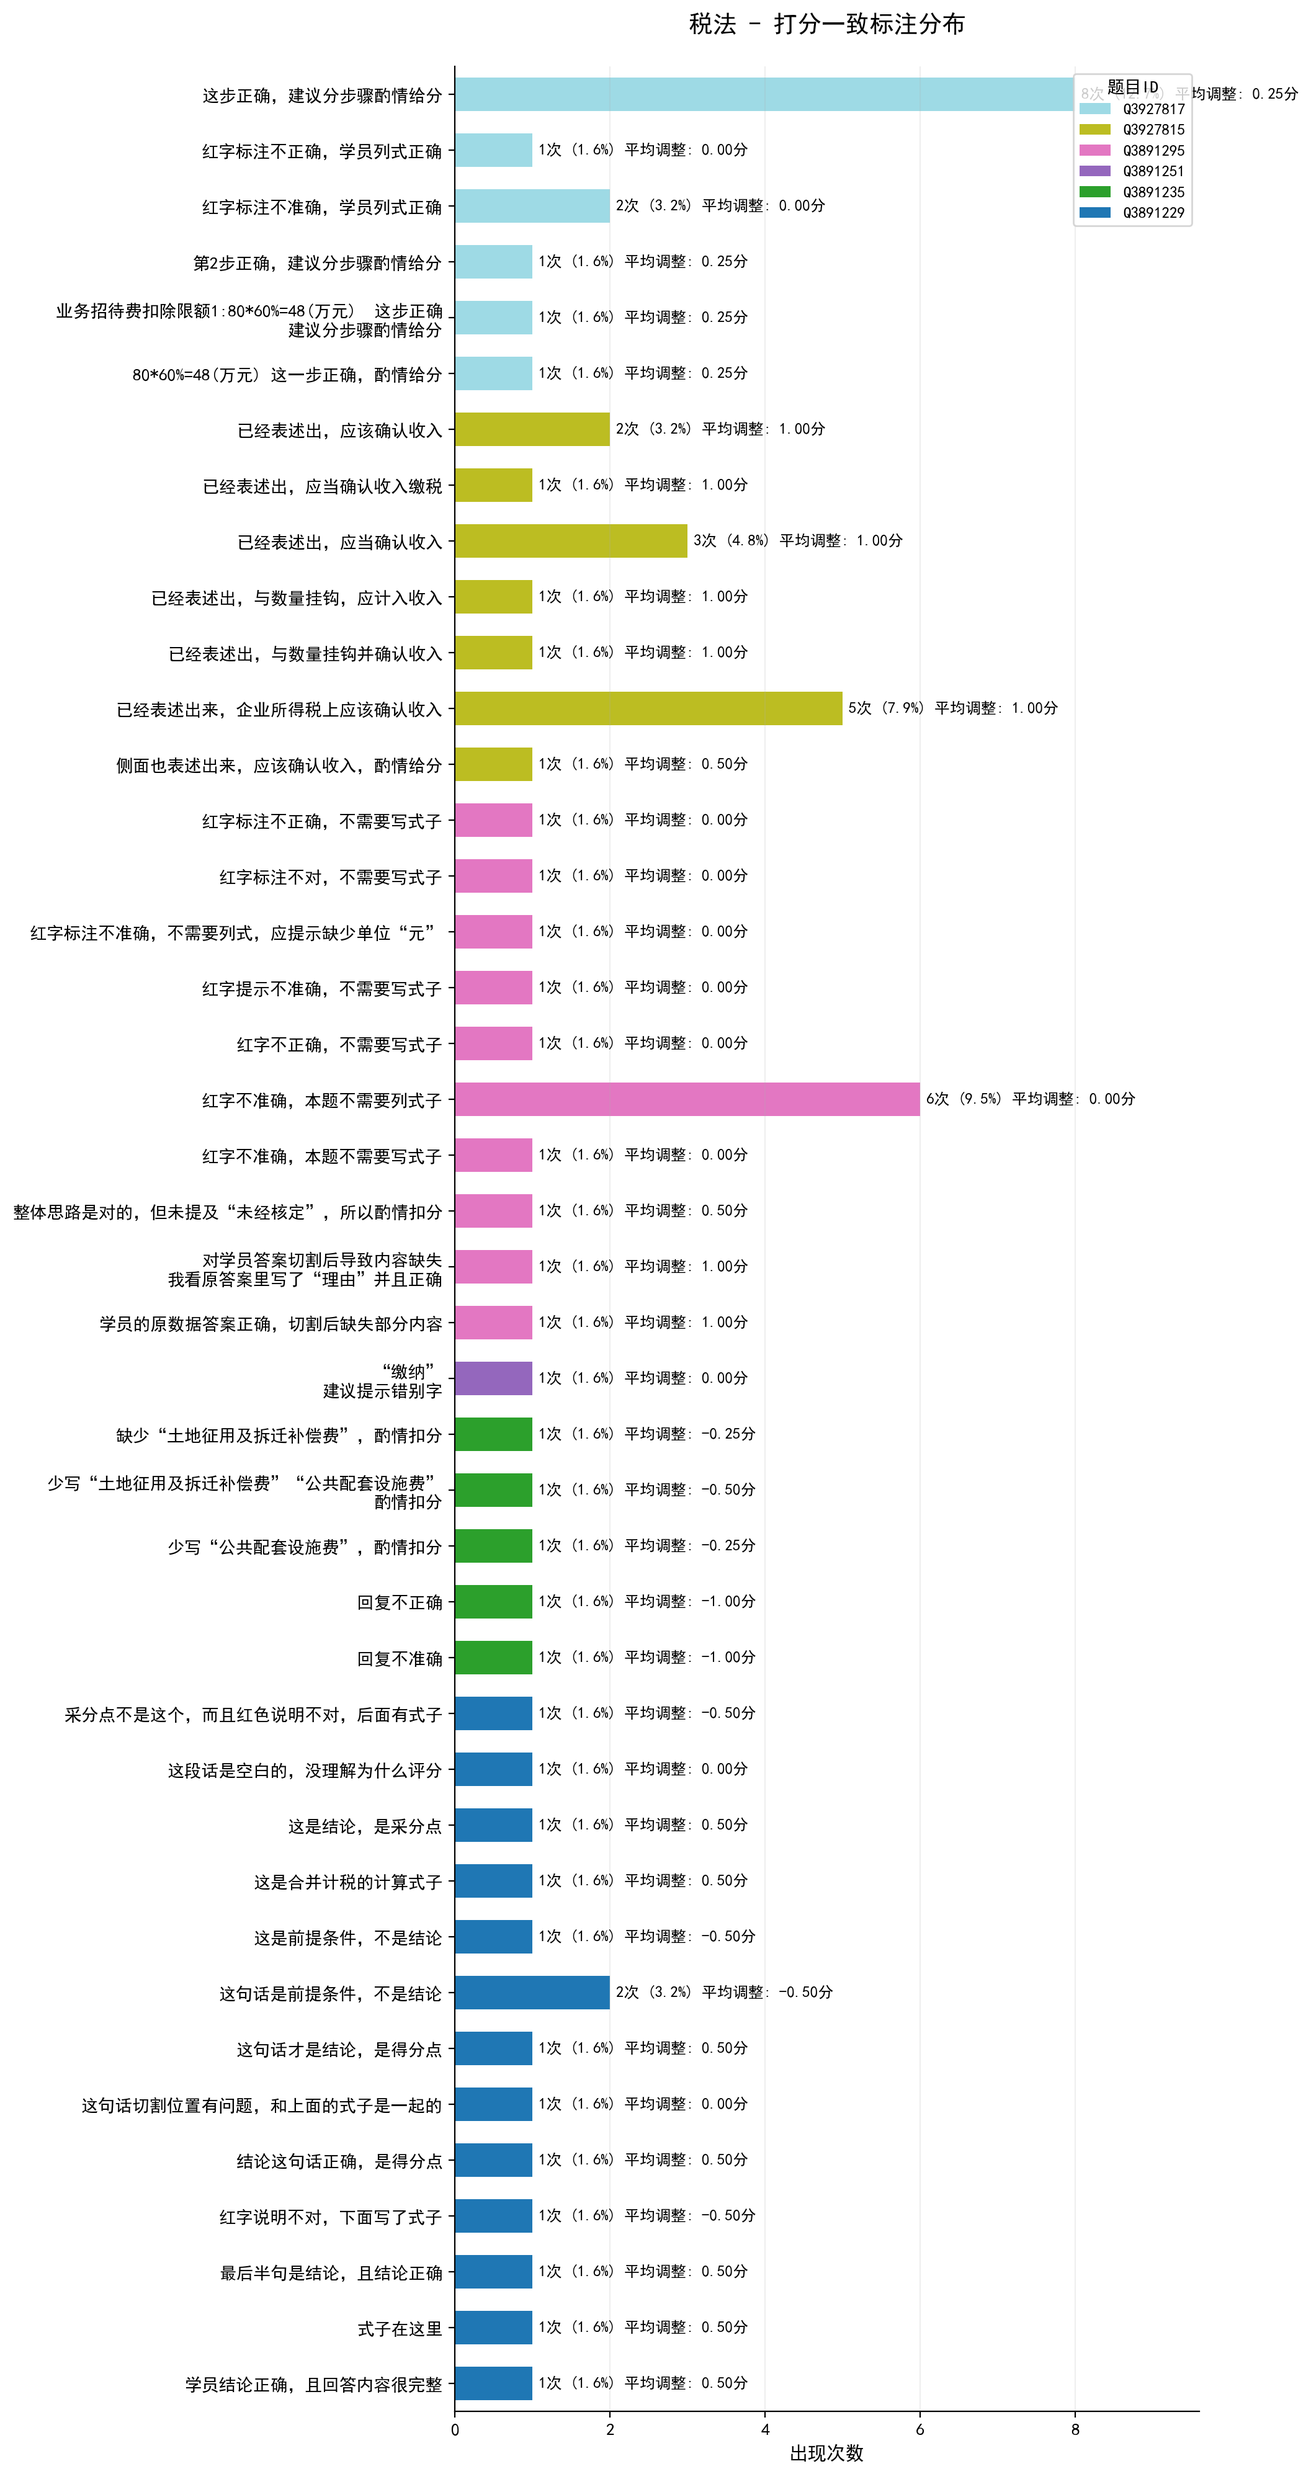
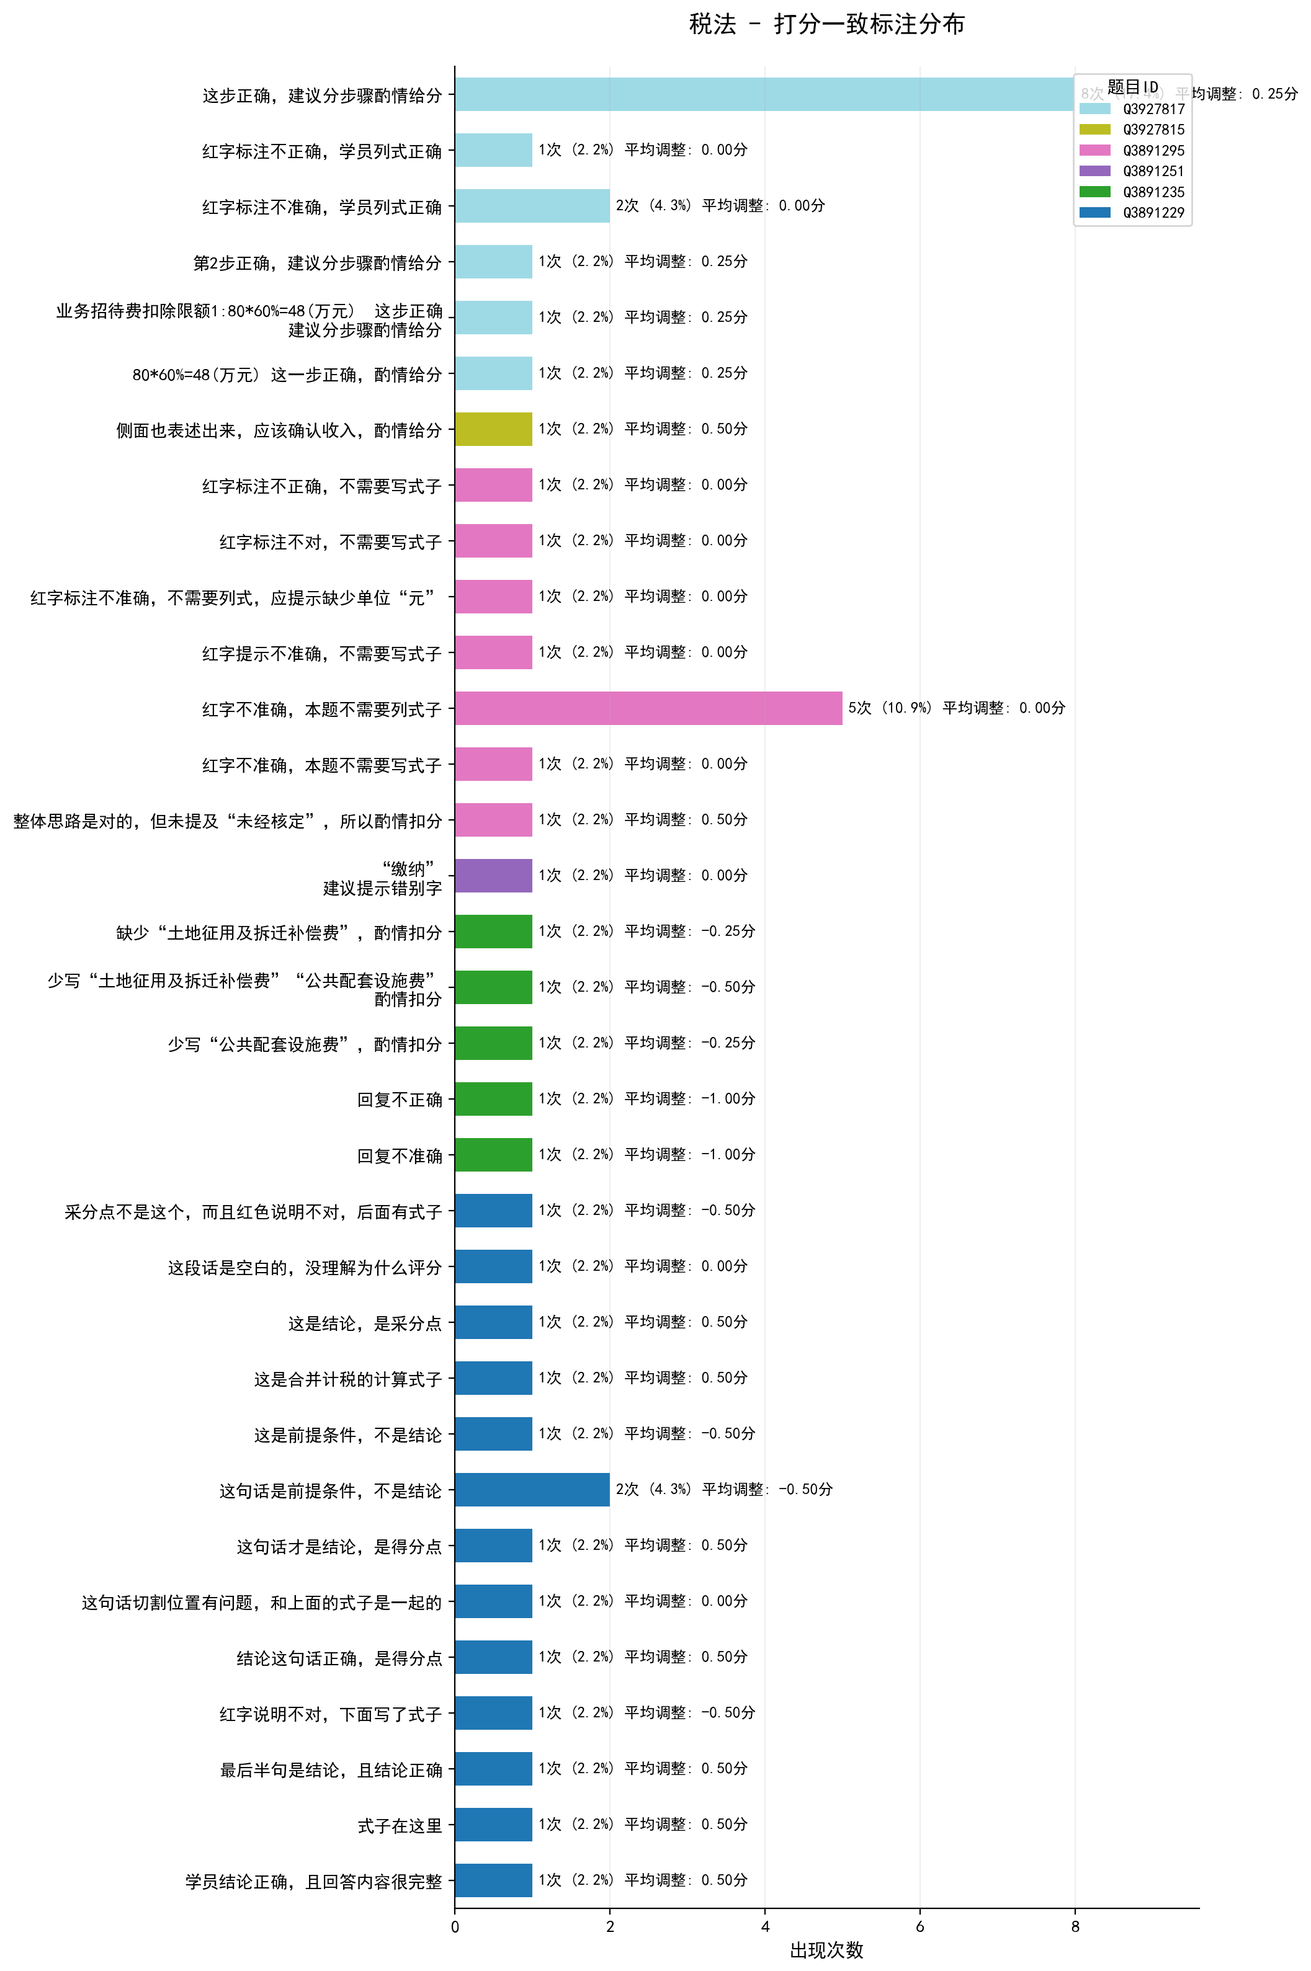
update data

diff --git a/report_output/report.html b/report_output/report.html
@@ -1566,7 +1566,7 @@
             </tr>
         
             <tr class="subject-end" data-subject="税法">
-                <td>税法</td><td>120</td><td>83.33%</td><td>87.50%</td><td>88.33%</td><td>96.67%</td><td>4.17%</td><td>8.33%</td><td>0.888</td><td>[0.843, 0.921]</td><td>0.092</td>
+                <td>税法</td><td>120</td><td>66.67%</td><td>80.00%</td><td>80.83%</td><td>85.00%</td><td>3.33%</td><td>16.67%</td><td>0.837</td><td>[0.774, 0.884]</td><td>0.171</td>
             </tr>
         
             <tr class="subject-end" data-subject="经济法">
@@ -1586,7 +1586,7 @@
             </tr>
         
             <tr class="subject-end" data-subject="总计">
-                <td>总计</td><td>722</td><td>66.07%</td><td>76.32%</td><td>80.89%</td><td>93.49%</td><td>9.14%</td><td>14.54%</td><td>0.912</td><td>-</td><td>0.171</td>
+                <td>总计</td><td>722</td><td>63.30%</td><td>75.07%</td><td>79.64%</td><td>91.55%</td><td>9.00%</td><td>15.93%</td><td>0.904</td><td>-</td><td>0.184</td>
             </tr>
         
         </tbody>
@@ -1671,124 +1671,124 @@
     </style>
     <table id="question-type-table">
         <thead>
-            <tr><th>科目名称</th><th>题型</th><th>样本量</th><th>精确一致率</th><th>精确一致率[+策略]</th><th>相邻一致率[±0.25]</th><th>相邻一致率[±0.5]</th><th>模型偏高比例</th><th>模型偏低比例</th><th>平均绝对误差</th><th>得分点命中率raw</th></tr>
+            <tr><th>科目名称</th><th>题型</th><th>样本量</th><th>精确一致率</th><th>精确一致率[+策略]</th><th>相邻一致率[±0.25]</th><th>相邻一致率[±0.5]</th><th>模型偏高比例</th><th>模型偏低比例</th><th>平均绝对误差</th><th>得分点命中率raw</th><th>得分点命中率1</th></tr>
         </thead>
         <tbody>
     
             <tr class="" data-subject="审计">
-                <td>审计</td><td>观点+理由+认定</td><td>30</td><td>26.67%</td><td>33.33%</td><td>40.00%</td><td>76.67%</td><td>56.67%</td><td>10.00%</td><td>0.42</td><td>91.40%</td>
+                <td>审计</td><td>观点+理由+认定</td><td>30</td><td>26.67%</td><td>33.33%</td><td>40.00%</td><td>76.67%</td><td>56.67%</td><td>10.00%</td><td>0.42</td><td>91.40%</td><td>92.08%</td>
             </tr>
         
             <tr class="subject-end" data-subject="审计">
-                <td></td><td>观点+理由</td><td>30</td><td>60.00%</td><td>70.00%</td><td>76.67%</td><td>96.67%</td><td>26.67%</td><td>3.33%</td><td>0.15</td><td>93.16%</td>
+                <td></td><td>观点+理由</td><td>30</td><td>60.00%</td><td>70.00%</td><td>76.67%</td><td>96.67%</td><td>26.67%</td><td>3.33%</td><td>0.15</td><td>93.16%</td><td>94.74%</td>
             </tr>
         
             <tr class="" data-subject="税法">
-                <td>税法</td><td>计算+文本</td><td>17</td><td>100.00%</td><td>100.00%</td><td>100.00%</td><td>100.00%</td><td>0.00%</td><td>0.00%</td><td>0.00</td><td>90.32%</td>
+                <td>税法</td><td>计算+文本</td><td>17</td><td>100.00%</td><td>100.00%</td><td>100.00%</td><td>100.00%</td><td>0.00%</td><td>0.00%</td><td>0.00</td><td>90.32%</td><td>90.32%</td>
             </tr>
         
             <tr class="" data-subject="税法">
-                <td></td><td>文本</td><td>17</td><td>47.06%</td><td>64.71%</td><td>70.59%</td><td>94.12%</td><td>23.53%</td><td>11.76%</td><td>0.18</td><td>47.06%</td>
+                <td></td><td>文本</td><td>17</td><td>47.06%</td><td>64.71%</td><td>70.59%</td><td>94.12%</td><td>23.53%</td><td>11.76%</td><td>0.18</td><td>47.06%</td><td>64.71%</td>
             </tr>
         
             <tr class="" data-subject="税法">
-                <td></td><td>观点+计算</td><td>17</td><td>64.71%</td><td>64.71%</td><td>64.71%</td><td>100.00%</td><td>0.00%</td><td>35.29%</td><td>0.18</td><td>100.00%</td>
+                <td></td><td>观点+计算</td><td>17</td><td>94.12%</td><td>94.12%</td><td>94.12%</td><td>100.00%</td><td>0.00%</td><td>5.88%</td><td>0.03</td><td>100.00%</td><td>100.00%</td>
             </tr>
         
             <tr class="" data-subject="税法">
-                <td></td><td>理由+计算</td><td>16</td><td>93.75%</td><td>100.00%</td><td>100.00%</td><td>100.00%</td><td>0.00%</td><td>0.00%</td><td>0.00</td><td>90.62%</td>
+                <td></td><td>理由+计算</td><td>16</td><td>81.25%</td><td>87.50%</td><td>87.50%</td><td>87.50%</td><td>0.00%</td><td>12.50%</td><td>0.12</td><td>90.62%</td><td>93.75%</td>
             </tr>
         
             <tr class="" data-subject="税法">
-                <td></td><td>观点+理由</td><td>23</td><td>82.61%</td><td>86.96%</td><td>86.96%</td><td>86.96%</td><td>4.35%</td><td>8.70%</td><td>0.22</td><td>65.22%</td>
+                <td></td><td>观点+理由</td><td>23</td><td>30.43%</td><td>34.78%</td><td>34.78%</td><td>34.78%</td><td>0.00%</td><td>65.22%</td><td>0.65</td><td>65.22%</td><td>67.39%</td>
             </tr>
         
             <tr class="subject-end" data-subject="税法">
-                <td></td><td>计算</td><td>30</td><td>100.00%</td><td>100.00%</td><td>100.00%</td><td>100.00%</td><td>0.00%</td><td>0.00%</td><td>0.00</td><td>100.00%</td>
+                <td></td><td>计算</td><td>30</td><td>63.33%</td><td>100.00%</td><td>100.00%</td><td>100.00%</td><td>0.00%</td><td>0.00%</td><td>0.00</td><td>100.00%</td><td>100.00%</td>
             </tr>
         
             <tr class="" data-subject="经济法">
-                <td>经济法</td><td>文本</td><td>30</td><td>83.33%</td><td>86.67%</td><td>86.67%</td><td>100.00%</td><td>13.33%</td><td>0.00%</td><td>0.13</td><td>83.33%</td>
+                <td>经济法</td><td>文本</td><td>30</td><td>83.33%</td><td>86.67%</td><td>86.67%</td><td>100.00%</td><td>13.33%</td><td>0.00%</td><td>0.13</td><td>83.33%</td><td>83.33%</td>
             </tr>
         
             <tr class="subject-end" data-subject="经济法">
-                <td></td><td>观点+理由</td><td>90</td><td>90.00%</td><td>90.00%</td><td>90.00%</td><td>96.67%</td><td>7.78%</td><td>2.22%</td><td>0.13</td><td>95.00%</td>
+                <td></td><td>观点+理由</td><td>90</td><td>90.00%</td><td>90.00%</td><td>90.00%</td><td>96.67%</td><td>7.78%</td><td>2.22%</td><td>0.13</td><td>95.00%</td><td>95.00%</td>
             </tr>
         
             <tr class="" data-subject="财管">
-                <td>财管</td><td>观点+计算</td><td>18</td><td>38.89%</td><td>38.89%</td><td>44.44%</td><td>77.78%</td><td>0.00%</td><td>61.11%</td><td>0.57</td><td>84.00%</td>
+                <td>财管</td><td>观点+计算</td><td>18</td><td>38.89%</td><td>38.89%</td><td>44.44%</td><td>77.78%</td><td>0.00%</td><td>61.11%</td><td>0.57</td><td>84.00%</td><td>84.00%</td>
             </tr>
         
             <tr class="" data-subject="财管">
-                <td></td><td>观点</td><td>17</td><td>94.12%</td><td>94.12%</td><td>94.12%</td><td>100.00%</td><td>5.88%</td><td>0.00%</td><td>0.03</td><td>94.12%</td>
+                <td></td><td>观点</td><td>17</td><td>94.12%</td><td>94.12%</td><td>94.12%</td><td>100.00%</td><td>5.88%</td><td>0.00%</td><td>0.03</td><td>94.12%</td><td>94.12%</td>
             </tr>
         
             <tr class="" data-subject="财管">
-                <td></td><td>计算+文本</td><td>17</td><td>70.59%</td><td>94.12%</td><td>94.12%</td><td>94.12%</td><td>5.88%</td><td>0.00%</td><td>0.09</td><td>91.30%</td>
+                <td></td><td>计算+文本</td><td>17</td><td>70.59%</td><td>94.12%</td><td>94.12%</td><td>94.12%</td><td>5.88%</td><td>0.00%</td><td>0.09</td><td>91.30%</td><td>95.65%</td>
             </tr>
         
             <tr class="" data-subject="财管">
-                <td></td><td>观点+理由</td><td>17</td><td>70.59%</td><td>70.59%</td><td>70.59%</td><td>94.12%</td><td>0.00%</td><td>29.41%</td><td>0.18</td><td>82.76%</td>
+                <td></td><td>观点+理由</td><td>17</td><td>70.59%</td><td>70.59%</td><td>70.59%</td><td>94.12%</td><td>0.00%</td><td>29.41%</td><td>0.18</td><td>82.76%</td><td>82.76%</td>
             </tr>
         
             <tr class="" data-subject="财管">
-                <td></td><td>观点+表格</td><td>17</td><td>23.53%</td><td>100.00%</td><td>100.00%</td><td>100.00%</td><td>0.00%</td><td>0.00%</td><td>0.00</td><td>93.90%</td>
+                <td></td><td>观点+表格</td><td>17</td><td>23.53%</td><td>100.00%</td><td>100.00%</td><td>100.00%</td><td>0.00%</td><td>0.00%</td><td>0.00</td><td>93.90%</td><td>97.18%</td>
             </tr>
         
             <tr class="" data-subject="财管">
-                <td></td><td>表格</td><td>30</td><td>36.67%</td><td>100.00%</td><td>100.00%</td><td>100.00%</td><td>0.00%</td><td>0.00%</td><td>0.00</td><td>88.33%</td>
+                <td></td><td>表格</td><td>30</td><td>36.67%</td><td>100.00%</td><td>100.00%</td><td>100.00%</td><td>0.00%</td><td>0.00%</td><td>0.00</td><td>88.33%</td><td>98.89%</td>
             </tr>
         
             <tr class="" data-subject="财管">
-                <td></td><td>计算</td><td>30</td><td>30.00%</td><td>70.00%</td><td>90.00%</td><td>100.00%</td><td>26.67%</td><td>3.33%</td><td>0.10</td><td>86.79%</td>
+                <td></td><td>计算</td><td>30</td><td>30.00%</td><td>70.00%</td><td>90.00%</td><td>100.00%</td><td>26.67%</td><td>3.33%</td><td>0.10</td><td>86.79%</td><td>91.70%</td>
             </tr>
         
             <tr class="" data-subject="财管">
-                <td></td><td>文本</td><td>17</td><td>41.18%</td><td>41.18%</td><td>47.06%</td><td>100.00%</td><td>52.94%</td><td>5.88%</td><td>0.27</td><td>35.71%</td>
+                <td></td><td>文本</td><td>17</td><td>41.18%</td><td>41.18%</td><td>47.06%</td><td>100.00%</td><td>52.94%</td><td>5.88%</td><td>0.27</td><td>35.71%</td><td>35.71%</td>
             </tr>
         
             <tr class="subject-end" data-subject="财管">
-                <td></td><td>观点+理由+计算</td><td>17</td><td>94.12%</td><td>94.12%</td><td>94.12%</td><td>100.00%</td><td>0.00%</td><td>5.88%</td><td>0.03</td><td>100.00%</td>
+                <td></td><td>观点+理由+计算</td><td>17</td><td>94.12%</td><td>94.12%</td><td>94.12%</td><td>100.00%</td><td>0.00%</td><td>5.88%</td><td>0.03</td><td>100.00%</td><td>100.00%</td>
             </tr>
         
             <tr class="" data-subject="会计">
-                <td>会计</td><td>计算+文本+分录</td><td>21</td><td>61.90%</td><td>71.43%</td><td>80.95%</td><td>85.71%</td><td>4.76%</td><td>23.81%</td><td>0.19</td><td>95.45%</td>
+                <td>会计</td><td>计算+文本+分录</td><td>21</td><td>61.90%</td><td>71.43%</td><td>80.95%</td><td>85.71%</td><td>4.76%</td><td>23.81%</td><td>0.19</td><td>95.45%</td><td>95.45%</td>
             </tr>
         
             <tr class="" data-subject="会计">
-                <td></td><td>分录</td><td>19</td><td>63.16%</td><td>89.47%</td><td>89.47%</td><td>94.74%</td><td>0.00%</td><td>10.53%</td><td>0.21</td><td>98.18%</td>
+                <td></td><td>分录</td><td>19</td><td>63.16%</td><td>89.47%</td><td>89.47%</td><td>94.74%</td><td>0.00%</td><td>10.53%</td><td>0.21</td><td>98.18%</td><td>98.18%</td>
             </tr>
         
             <tr class="" data-subject="会计">
-                <td></td><td>观点+理由</td><td>18</td><td>83.33%</td><td>83.33%</td><td>83.33%</td><td>94.44%</td><td>0.00%</td><td>16.67%</td><td>0.11</td><td>88.57%</td>
+                <td></td><td>观点+理由</td><td>18</td><td>83.33%</td><td>83.33%</td><td>83.33%</td><td>94.44%</td><td>0.00%</td><td>16.67%</td><td>0.11</td><td>88.57%</td><td>88.57%</td>
             </tr>
         
             <tr class="" data-subject="会计">
-                <td></td><td>观点+理由+分录</td><td>18</td><td>22.22%</td><td>22.22%</td><td>66.67%</td><td>100.00%</td><td>5.56%</td><td>72.22%</td><td>0.28</td><td>72.00%</td>
+                <td></td><td>观点+理由+分录</td><td>18</td><td>22.22%</td><td>22.22%</td><td>66.67%</td><td>100.00%</td><td>5.56%</td><td>72.22%</td><td>0.28</td><td>72.00%</td><td>72.00%</td>
             </tr>
         
             <tr class="" data-subject="会计">
-                <td></td><td>观点+理由+计算+分录</td><td>19</td><td>68.42%</td><td>68.42%</td><td>68.42%</td><td>89.47%</td><td>0.00%</td><td>31.58%</td><td>0.21</td><td>88.00%</td>
+                <td></td><td>观点+理由+计算+分录</td><td>19</td><td>68.42%</td><td>68.42%</td><td>68.42%</td><td>89.47%</td><td>0.00%</td><td>31.58%</td><td>0.21</td><td>88.00%</td><td>88.00%</td>
             </tr>
         
             <tr class="" data-subject="会计">
-                <td></td><td>计算</td><td>21</td><td>100.00%</td><td>100.00%</td><td>100.00%</td><td>100.00%</td><td>0.00%</td><td>0.00%</td><td>0.00</td><td>100.00%</td>
+                <td></td><td>计算</td><td>21</td><td>100.00%</td><td>100.00%</td><td>100.00%</td><td>100.00%</td><td>0.00%</td><td>0.00%</td><td>0.00</td><td>100.00%</td><td>100.00%</td>
             </tr>
         
             <tr class="" data-subject="会计">
-                <td></td><td>计算+文本</td><td>18</td><td>77.78%</td><td>100.00%</td><td>100.00%</td><td>100.00%</td><td>0.00%</td><td>0.00%</td><td>0.00</td><td>85.71%</td>
+                <td></td><td>计算+文本</td><td>18</td><td>77.78%</td><td>100.00%</td><td>100.00%</td><td>100.00%</td><td>0.00%</td><td>0.00%</td><td>0.00</td><td>85.71%</td><td>100.00%</td>
             </tr>
         
             <tr class="" data-subject="会计">
-                <td></td><td>文本</td><td>18</td><td>66.67%</td><td>66.67%</td><td>94.44%</td><td>100.00%</td><td>11.11%</td><td>22.22%</td><td>0.10</td><td>69.23%</td>
+                <td></td><td>文本</td><td>18</td><td>66.67%</td><td>66.67%</td><td>94.44%</td><td>100.00%</td><td>11.11%</td><td>22.22%</td><td>0.10</td><td>69.23%</td><td>69.23%</td>
             </tr>
         
             <tr class="subject-end" data-subject="会计">
-                <td></td><td>计算+分录</td><td>30</td><td>86.67%</td><td>90.00%</td><td>90.00%</td><td>90.00%</td><td>0.00%</td><td>10.00%</td><td>0.13</td><td>96.59%</td>
+                <td></td><td>计算+分录</td><td>30</td><td>86.67%</td><td>90.00%</td><td>90.00%</td><td>90.00%</td><td>0.00%</td><td>10.00%</td><td>0.13</td><td>96.59%</td><td>96.59%</td>
             </tr>
         
             <tr class="subject-end" data-subject="战略">
-                <td>战略</td><td>知识点和材料</td><td>60</td><td>35.00%</td><td>40.00%</td><td>48.33%</td><td>73.33%</td><td>3.33%</td><td>56.67%</td><td>0.52</td><td>72.22%</td>
+                <td>战略</td><td>知识点和材料</td><td>60</td><td>35.00%</td><td>40.00%</td><td>48.33%</td><td>73.33%</td><td>3.33%</td><td>56.67%</td><td>0.52</td><td>72.22%</td><td>73.33%</td>
             </tr>
         
         </tbody>
@@ -1837,8 +1837,8 @@
       <td>57 (47.5%)</td>
       <td>63 (52.5%)</td>
       <td>4 (6.3%)</td>
-      <td>5 (7.9%)</td>
-      <td>54 (85.7%)</td>
+      <td>20 (31.7%)</td>
+      <td>39 (61.9%)</td>
     </tr>
     <tr>
       <td>经济法</td>
@@ -1951,7 +1951,7 @@
                 <div class="barchart-item" data-subject="税法" data-category="模型打分偏低">
                     <div class="chart-section">
                         <h5>税法 - 模型打分偏低</h5>
-                        <p class="chart-stats">记录数: 5 | 标注数: 5</p>
+                        <p class="chart-stats">记录数: 20 | 标注数: 22</p>
                         <div class="chart-scroll-container">
                             <img src="税法_low_model_smart.png" alt="税法模型打分偏低标注分布" 
                                  class="scrollable-chart">
@@ -1962,7 +1962,7 @@
                 <div class="barchart-item" data-subject="税法" data-category="打分一致">
                     <div class="chart-section">
                         <h5>税法 - 打分一致</h5>
-                        <p class="chart-stats">记录数: 54 | 标注数: 63</p>
+                        <p class="chart-stats">记录数: 39 | 标注数: 46</p>
                         <div class="chart-scroll-container">
                             <img src="税法_consistent_smart.png" alt="税法打分一致标注分布" 
                                  class="scrollable-chart">
